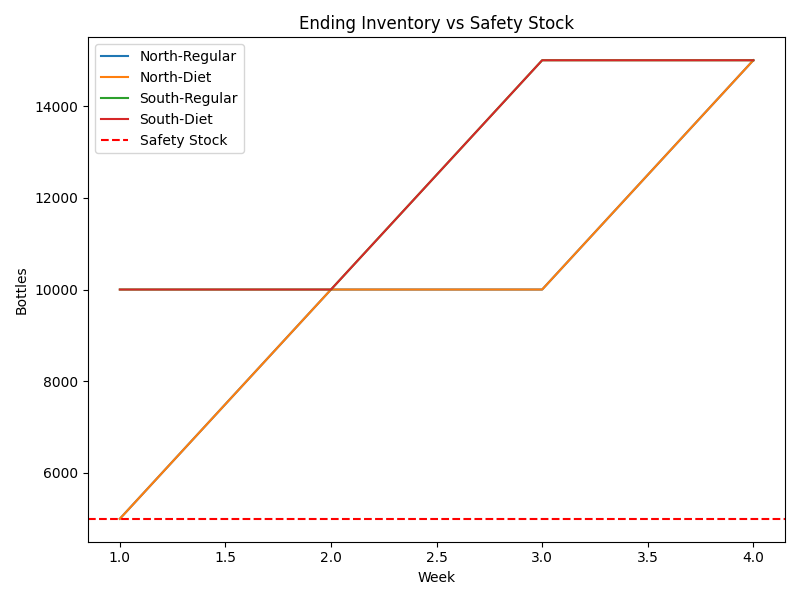
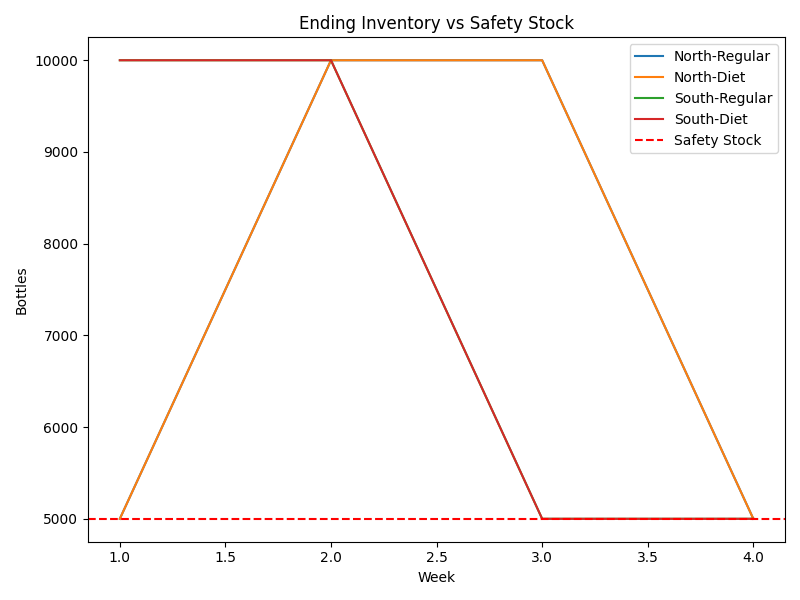
fix

diff --git a/planner.py b/planner.py
@@ -49,10 +49,74 @@ def allocate_fair_share(demand_df, prod_df):
             shipments.append([week, sku, "South", s_share])
     return pd.DataFrame(shipments, columns=["Week", "SKU", "DC", "Qty"])
 
-def apply_truck_rounding(ship_df, truck_size):
-    ship_df["Trucks"] = np.ceil(ship_df["Qty"] / truck_size).astype(int)
-    ship_df["Qty"] = ship_df["Trucks"] * truck_size
+def apply_smart_truck_rounding(ship_df, demand_df, truck_size, safety, initial_inventory=None):
+    """Enhanced truck rounding that considers inventory levels and actual needs"""
+    ship_df = ship_df.copy()
+    
+    # Initialize inventory if not provided
+    if initial_inventory is None:
+        inv = {("North","Regular"):safety, ("North","Diet"):safety,
+               ("South","Regular"):safety, ("South","Diet"):safety}
+    else:
+        inv = initial_inventory.copy()
+    
+    # Process week by week to make informed decisions
+    for week in sorted(ship_df["Week"].unique()):
+        week_shipments = ship_df[ship_df["Week"] == week].copy()
+        week_demand = demand_df[demand_df["Week"] == week].iloc[0]
+        
+        for idx, row in week_shipments.iterrows():
+            dc = row["DC"]
+            sku = row["SKU"]
+            proposed_qty = row["Qty"]
+            
+            # Calculate actual need
+            current_inv = inv[(dc, sku)]
+            demand = week_demand[f"{dc}_{sku}"]
+            needed = max(0, demand + safety - current_inv)
+            
+            # Calculate truck options
+            trucks_down = int(needed // truck_size)
+            trucks_up = trucks_down + 1
+            
+            qty_down = trucks_down * truck_size
+            qty_up = trucks_up * truck_size
+            
+            # Evaluate outcomes
+            ending_inv_down = current_inv + qty_down - demand
+            ending_inv_up = current_inv + qty_up - demand
+            
+            # Decision logic
+            if qty_down == 0 and needed > 0:
+                # Must send at least one truck
+                chosen_qty = qty_up
+                chosen_trucks = trucks_up
+            elif ending_inv_down >= safety:
+                # Rounding down meets safety stock - prefer this to avoid waste
+                chosen_qty = qty_down
+                chosen_trucks = trucks_down
+            elif (qty_up - needed) > (truck_size * 0.6):
+                # Rounding up creates too much waste (>60% of truck capacity)
+                # Accept going slightly below safety stock
+                chosen_qty = qty_down
+                chosen_trucks = trucks_down
+            else:
+                # Round up to maintain safety stock
+                chosen_qty = qty_up
+                chosen_trucks = trucks_up
+            
+            # Update the dataframe
+            ship_df.at[idx, "Trucks"] = chosen_trucks
+            ship_df.at[idx, "Qty"] = chosen_qty
+            
+            # Update inventory for next iteration
+            inv[(dc, sku)] = max(0, current_inv + chosen_qty - demand)
+    
     return ship_df
+
+def apply_truck_rounding(ship_df, truck_size):
+    """Simple truck rounding - kept for backward compatibility"""
+    return apply_smart_truck_rounding(ship_df, demand_df, truck_size, 5000)
 
 def simulate_inventory(ship_df, demand_df, safety):
     records = []
@@ -66,9 +130,13 @@ def simulate_inventory(ship_df, demand_df, safety):
                 demand = row[f"{dc}_{sku}"]
                 start = inv[(dc,sku)]
                 end = start + arrivals - demand
-                if end < safety: end = safety
-                records.append([week, dc, sku, start, arrivals, demand, end])
-                inv[(dc,sku)] = end
+                
+                # Don't artificially bump inventory to safety stock
+                # Let it go below and track the shortfall
+                actual_end = max(0, end)  # Can't go negative
+                
+                records.append([week, dc, sku, start, arrivals, demand, actual_end])
+                inv[(dc,sku)] = actual_end
     return pd.DataFrame(records, columns=["Week","DC","SKU","Start","Arrivals","Demand","End"])
 
 def fulfillment_summary(demand_df):
@@ -133,7 +201,7 @@ def run_planner(capacity, truck_size, safety, demand_df=None):
         demand_df = pd.DataFrame(demand_data)
     prod_df = plan_production(demand_df, capacity)
     ship_df = allocate_fair_share(demand_df, prod_df)
-    ship_df = apply_truck_rounding(ship_df, truck_size)
+    ship_df = apply_smart_truck_rounding(ship_df, demand_df, truck_size, safety)
     inv_df = simulate_inventory(ship_df, demand_df, safety)
     ful_df = fulfillment_summary(demand_df)
 
@@ -180,7 +248,7 @@ if __name__ == "__main__":
 
     prod_df = plan_production(demand_df, args.capacity)
     ship_df = allocate_fair_share(demand_df, prod_df)
-    ship_df = apply_truck_rounding(ship_df, args.truck)
+    ship_df = apply_smart_truck_rounding(ship_df, demand_df, args.truck, args.safety)
     inv_df = simulate_inventory(ship_df, demand_df, args.safety)
     ful_df = fulfillment_summary(demand_df)
 
